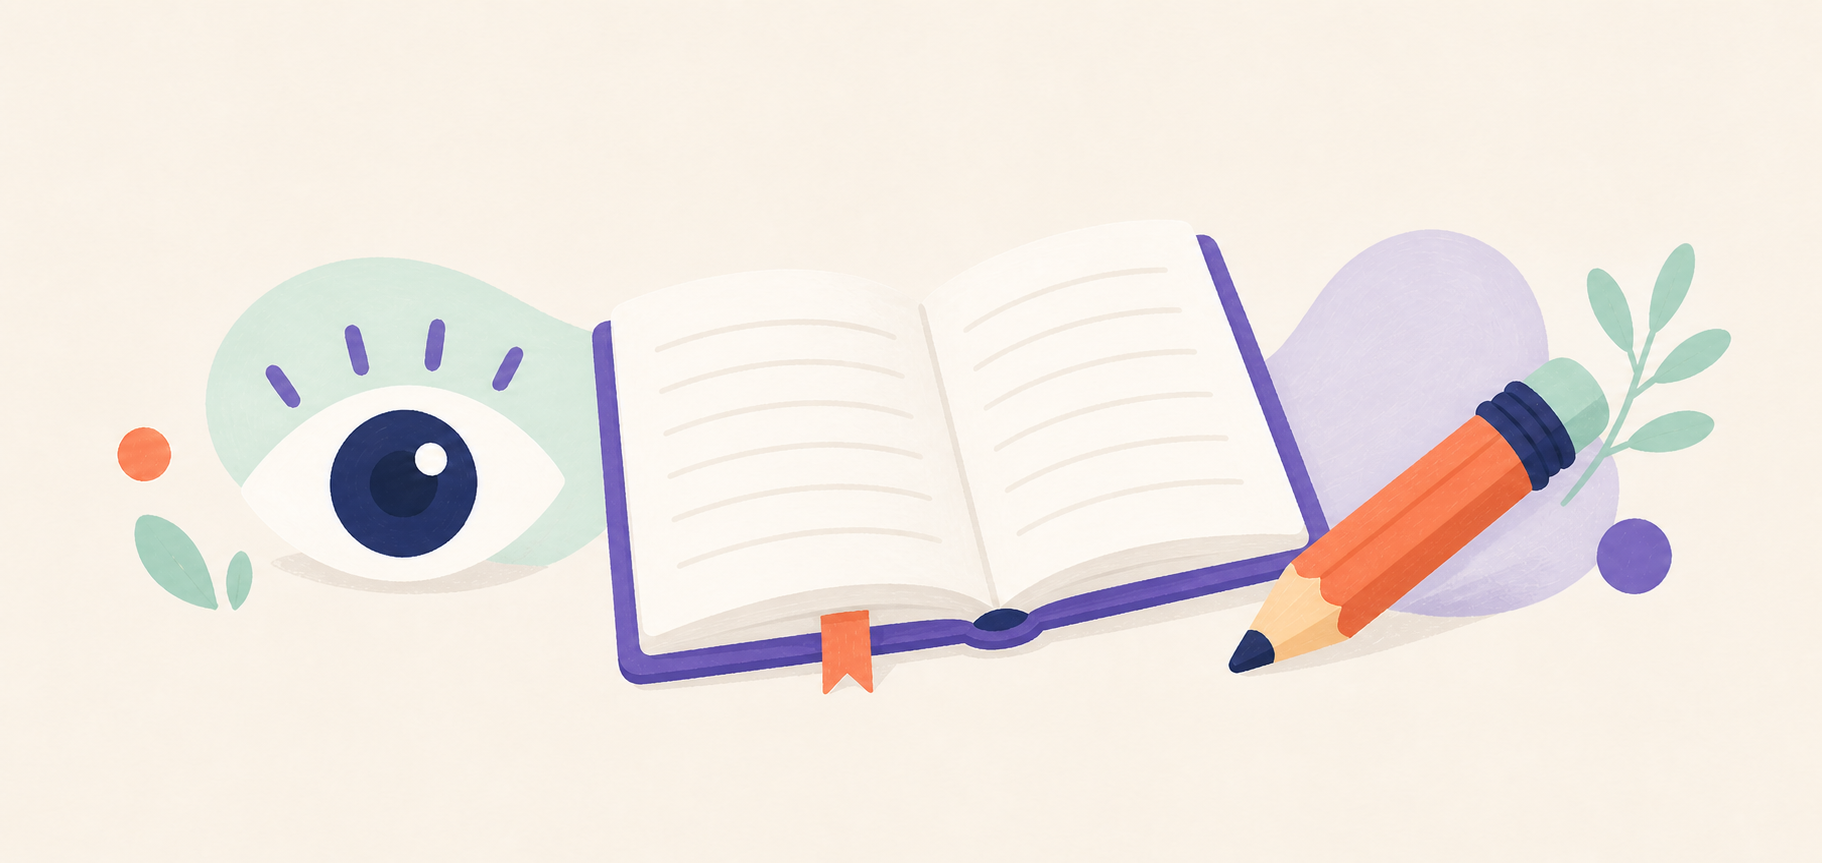
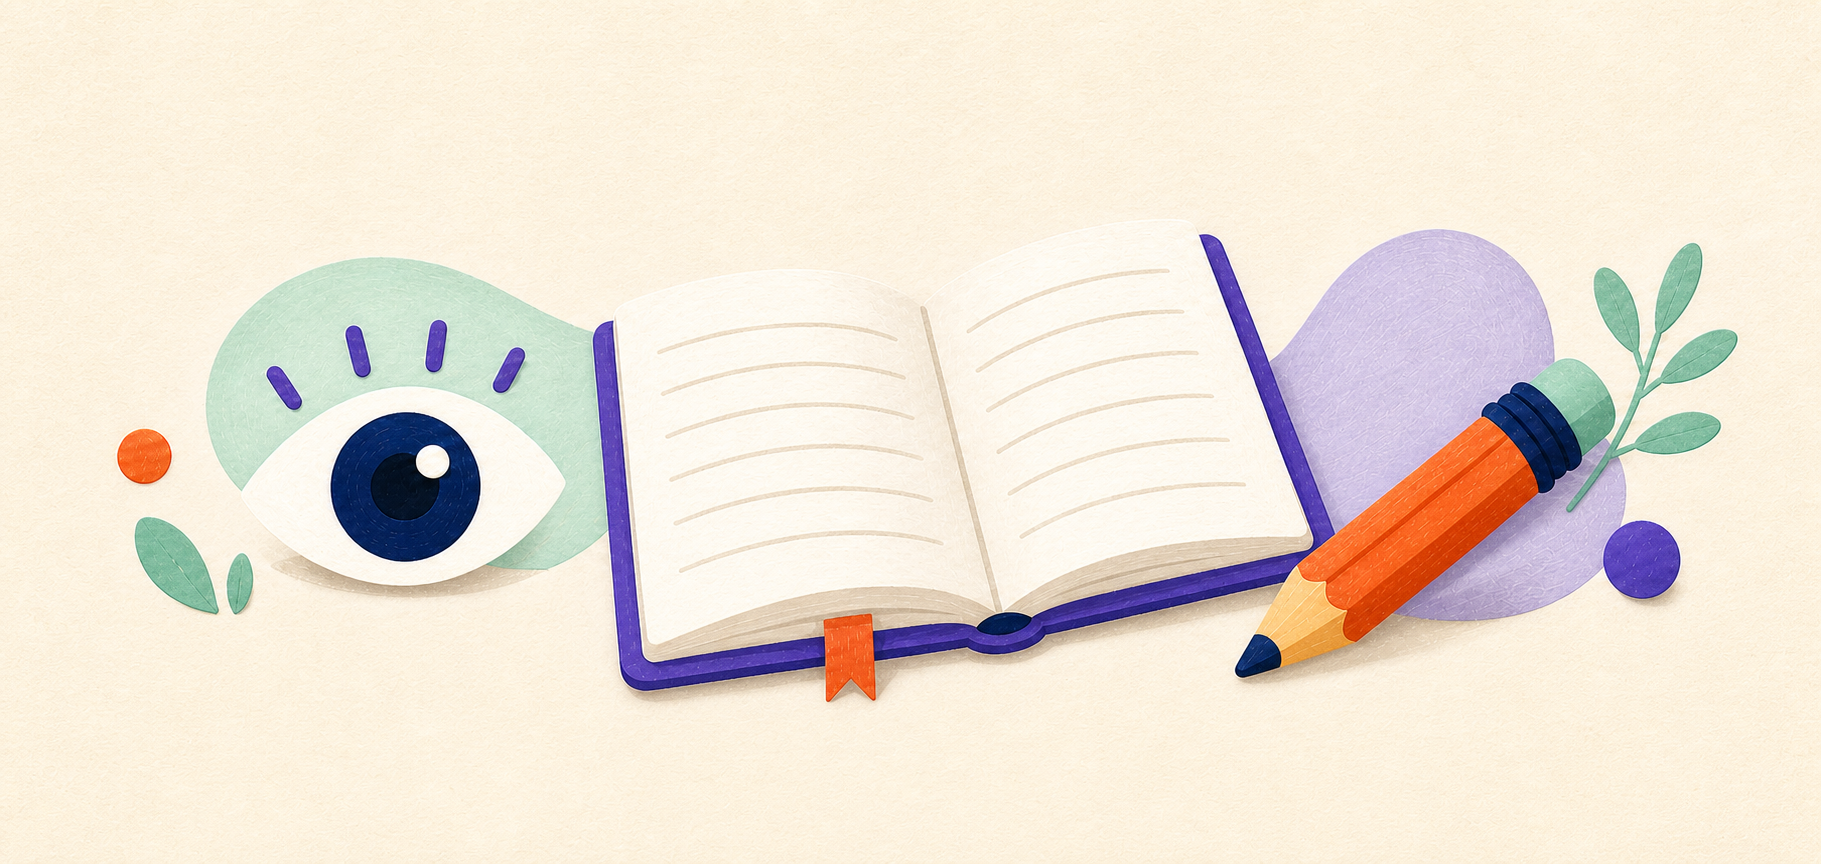
Improve calibration reading and visual celebration

diff --git a/app/DictaApp.tsx b/app/DictaApp.tsx
@@ -26,13 +26,18 @@ const CALIBRATION_PREPARATION_MS = 2000;
 const CALIBRATION_MEASUREMENT_MS = 1500;
 const AUTO_HIDE_GRACE_MS = 2000;
 const CONFETTI_COLORS = ["#ef765f", "#6654d9", "#58a37c", "#f3b34f"] as const;
-const CONFETTI_PIECES = Array.from({ length: 56 }, (_, index) => ({
-  left: `${5 + ((index * 19) % 90)}%`,
-  delay: `${(index % 16) * 240 + Math.floor(index / 16) * 180}ms`,
-  drift: `${((index * 31) % 70) - 35}px`,
-  rotate: `${((index * 47) % 60) - 30}deg`,
-  color: CONFETTI_COLORS[index % CONFETTI_COLORS.length],
-}));
+const CONFETTI_PIECES = Array.from({ length: 56 }, (_, index) => {
+  const origin = index % 6 === 0 ? "left" : index % 6 === 1 ? "right" : "top";
+  return {
+    origin,
+    left: origin === "left" ? "-12px" : origin === "right" ? "calc(100% + 12px)" : `${5 + ((index * 19) % 90)}%`,
+    top: origin === "top" ? "-18px" : `${18 + ((index * 23) % 58)}%`,
+    delay: `${(index % 16) * 240 + Math.floor(index / 16) * 180}ms`,
+    drift: `${((index * 31) % 70) - 35}px`,
+    rotate: `${((index * 47) % 60) - 30}deg`,
+    color: CONFETTI_COLORS[index % CONFETTI_COLORS.length],
+  };
+});
 
 const INITIAL_LEVEL: PrimaryLevel = "CP";
 const INITIAL_DICTATION = getDictation(INITIAL_LEVEL, 0);
@@ -99,6 +104,7 @@ export function DictaApp() {
   const lastCameraReadingAtRef = useRef(0);
   const autoHideBlockedUntilRef = useRef(0);
   const sessionStartedAtRef = useRef<number | null>(null);
+  const calibrationReadConfirmedRef = useRef(false);
   const dictationCursorsRef = useRef<Record<PrimaryLevel, number>>({ ...INITIAL_CURSORS });
 
   useEffect(() => {
@@ -130,9 +136,9 @@ export function DictaApp() {
     chooseNextDictation(event.target.value as PrimaryLevel);
   };
 
-  const startAutoHideGracePeriod = () => {
+  const startAutoHideGracePeriod = useCallback(() => {
     autoHideBlockedUntilRef.current = Date.now() + AUTO_HIDE_GRACE_MS;
-  };
+  }, []);
 
   const setLetterTarget = (value: number) => {
     if (!Number.isFinite(value)) return;
@@ -254,6 +260,15 @@ export function DictaApp() {
     return () => window.clearInterval(watchdog);
   }, [cameraMode, phase, screen]);
 
+  const startCameraSession = useCallback(() => {
+    setFragmentIndex(0);
+    setReviewCounts(Array(fragments.length).fill(0));
+    sessionStartedAtRef.current = Date.now();
+    startAutoHideGracePeriod();
+    setPhase("memorizing");
+    setScreen("session");
+  }, [fragments.length, startAutoHideGracePeriod]);
+
   useEffect(() => {
     if (cameraMode !== "camera" || !detectorRef.current) return;
     if (screen !== "calibration-screen") return;
@@ -266,12 +281,7 @@ export function DictaApp() {
         detectorRef.current?.finishCalibration("screen");
         setCalibrationPhase("ready");
         playCalibrationBeep();
-        setFragmentIndex(0);
-        setReviewCounts(Array(fragments.length).fill(0));
-        sessionStartedAtRef.current = Date.now();
-        startAutoHideGracePeriod();
-        setPhase("memorizing");
-        setScreen("session");
+        if (calibrationReadConfirmedRef.current) startCameraSession();
       } catch {
         setCalibrationPhase("failed");
         setToast("Je n’ai pas assez vu ton visage. Replace-toi puis réessaie.");
@@ -285,7 +295,12 @@ export function DictaApp() {
       window.clearTimeout(preparationTimer);
       if (measurementTimer !== undefined) window.clearTimeout(measurementTimer);
     };
-  }, [calibrationAttempt, cameraMode, fragments.length, playCalibrationBeep, screen]);
+  }, [calibrationAttempt, cameraMode, fragments.length, playCalibrationBeep, screen, startCameraSession]);
+
+  const confirmCalibrationRead = () => {
+    calibrationReadConfirmedRef.current = true;
+    if (calibrationPhase === "ready") startCameraSession();
+  };
 
   const beginManual = () => {
     stopCamera();
@@ -296,6 +311,7 @@ export function DictaApp() {
     setPhase("memorizing");
     setFragmentIndex(0);
     setReviewCounts(Array(fragments.length).fill(0));
+    calibrationReadConfirmedRef.current = false;
     sessionStartedAtRef.current = Date.now();
     startAutoHideGracePeriod();
   };
@@ -348,6 +364,7 @@ export function DictaApp() {
     setSummaryScore(null);
     setCurrentScoreId(null);
     setIsNewBestScore(false);
+    calibrationReadConfirmedRef.current = false;
     sessionStartedAtRef.current = null;
   };
 
@@ -390,7 +407,7 @@ export function DictaApp() {
               <span>Dictée {selectedDictation.index + 1} sur {selectedDictation.total} · {getLevel(selectedLevel).cycle} · {text.trim().split(/\s+/).filter(Boolean).length} mots</span>
             </div>
             <div className="settings-row">
-              <div><strong>Lettres par étape</strong><div className="muted">Arrondi au mot supérieur · Environ {fragments.length} fragments</div></div>
+              <div><strong>Lettres par étape</strong></div>
               <div className="stepper">
                 <button aria-label="Réduire le nombre de lettres" onClick={() => setLetterTarget(lettersPerFragment - 1)}>−</button>
                 <input
@@ -438,7 +455,7 @@ export function DictaApp() {
               </div>
             </div>
             <div className="placement-tip"><span className="placement-tip-icon" aria-hidden="true">◎</span><span>Centre ton visage dans le cadre, puis garde le téléphone bien droit.</span></div>
-            <button className="primary-button" disabled={!faceDetected || cameraLoading} onClick={() => { primeAudioFeedback(); detectorRef.current?.beginCalibration("screen"); setCalibrationPhase("preparing"); setScreen("calibration-screen"); }}>{faceDetected ? "Mon visage est bien placé" : "Recherche du visage…"}</button>
+            <button className="primary-button" disabled={!faceDetected || cameraLoading} onClick={() => { primeAudioFeedback(); calibrationReadConfirmedRef.current = false; detectorRef.current?.beginCalibration("screen"); setCalibrationPhase("preparing"); setScreen("calibration-screen"); }}>{faceDetected ? "Mon visage est bien placé" : "Recherche du visage…"}</button>
             <button className="manual-hide" onClick={beginManual}>Utiliser le mode manuel</button>
           </div>
         </section>
@@ -446,16 +463,24 @@ export function DictaApp() {
 
       {screen === "calibration-screen" && (
         <section className="session-shell calibration-shell">
-          <div className="card stage-card calibration-card" data-phase={calibrationPhase}>
+          <div className="card calibration-reading-card" data-phase={calibrationPhase}>
             {calibrationPhase === "failed" ? (
               <>
-                <div className="calibration-message" role="alert">Replace ton visage dans le champ de la caméra.</div>
-                <button className="primary-button" onClick={() => { detectorRef.current?.beginCalibration("screen"); setCalibrationPhase("preparing"); setCalibrationAttempt((value) => value + 1); }}>Réessayer</button>
+                <div className="eyebrow">Lis la dictée</div>
+                <div className="calibration-dictation">{text}</div>
+                <div className="calibration-reading-actions">
+                  <p className="calibration-error" role="alert">Replace ton visage dans le champ de la caméra.</p>
+                  <button className="secondary-button" onClick={() => { calibrationReadConfirmedRef.current = false; detectorRef.current?.beginCalibration("screen"); setCalibrationPhase("preparing"); setCalibrationAttempt((value) => value + 1); }}>Réessayer</button>
+                </div>
               </>
             ) : (
               <>
-                <div className="calibration-message" role="status" aria-live="polite">Regardez la caméra</div>
-                <span className="sr-only">{calibrationPhase === "preparing" ? "La calibration commence dans deux secondes." : "Calibration en cours."}</span>
+                <div className="eyebrow">Lis la dictée</div>
+                <div className="calibration-dictation">{text}</div>
+                <div className="calibration-reading-actions">
+                  <p className="calibration-reading-help">Lis toute la dictée, puis appuie quand tu as terminé.</p>
+                  <button className="primary-button" onClick={confirmCalibrationRead}>J&apos;ai lu</button>
+                </div>
               </>
             )}
           </div>
@@ -498,9 +523,10 @@ export function DictaApp() {
               {CONFETTI_PIECES.map((piece, index) => (
                 <span
                   key={`${piece.left}-${index}`}
-                  className="confetti-piece"
+                  className={`confetti-piece confetti-piece-${piece.origin}`}
                   style={{
                     "--confetti-left": piece.left,
+                    "--confetti-top": piece.top,
                     "--confetti-delay": piece.delay,
                     "--confetti-drift": piece.drift,
                     "--confetti-rotate": piece.rotate,

diff --git a/app/globals.css b/app/globals.css
@@ -129,6 +129,12 @@ button { touch-action: manipulation; }
 .calibration-card { flex: 0 1 auto; height: min(360px, calc(100svh - 150px)); min-height: 0; align-items: center; justify-content: center; padding: 34px 24px; }
 .calibration-message { max-width: 360px; font-size: clamp(34px, 9vw, 54px); font-weight: 850; letter-spacing: -.05em; line-height: 1.05; }
 .calibration-card[data-phase="failed"] .calibration-message { font-size: clamp(24px, 7vw, 34px); }
+.calibration-reading-card { flex: 1; min-height: min(680px, calc(100svh - 104px)); display: flex; flex-direction: column; align-items: stretch; padding: 28px 22px 22px; overflow: hidden; }
+.calibration-dictation { flex: 1; width: 100%; margin: 22px 0; padding: 20px; overflow-y: auto; border: 1px solid var(--line); border-radius: 22px; background: rgba(255, 255, 255, .72); color: var(--ink); text-align: left; white-space: pre-wrap; font-size: clamp(22px, 5.8vw, 34px); font-weight: 760; letter-spacing: -.035em; line-height: 1.35; }
+.calibration-reading-actions { width: 100%; margin-top: auto; }
+.calibration-reading-help, .calibration-error { margin: 0 0 12px; color: var(--muted); font-size: 13px; line-height: 1.45; text-align: center; }
+.calibration-error { color: #94412f; }
+.calibration-reading-actions .primary-button, .calibration-reading-actions .secondary-button { margin-top: 0; width: 100%; }
 .gaze-target-card { justify-content: flex-start; padding-top: 82px; }
 .gaze-target-card .fragment { margin-top: 12px; }
 .stage-card::before { content: ""; position: absolute; inset: 18px; border: 1px dashed rgba(102,84,217,.18); border-radius: 21px; pointer-events: none; }
@@ -150,10 +156,12 @@ button { touch-action: manipulation; }
 .summary-card { isolation: isolate; }
 .confetti-field { position: absolute; inset: 0; overflow: hidden; pointer-events: none; z-index: 2; }
 .confetti-piece {
-  position: absolute; top: -18px; left: var(--confetti-left); width: 9px; height: 14px;
+  position: absolute; top: var(--confetti-top); left: var(--confetti-left); width: 9px; height: 14px;
   border-radius: 3px; background: var(--confetti-color); opacity: 0;
   animation: confetti-fall 6.5s var(--confetti-delay) ease-out both;
 }
+.confetti-piece-left { animation-name: confetti-from-left; }
+.confetti-piece-right { animation-name: confetti-from-right; }
 @keyframes summary-score-bounce {
   0% { opacity: 0; transform: scale(.82); }
   48% { opacity: 1; transform: scale(1.1); }
@@ -167,6 +175,16 @@ button { touch-action: manipulation; }
   0% { opacity: 0; transform: translate3d(0, -18px, 0) rotate(var(--confetti-rotate)); }
   12% { opacity: 1; }
   100% { opacity: 0; transform: translate3d(var(--confetti-drift), calc(100svh + 80px), 0) rotate(calc(var(--confetti-rotate) + 420deg)); }
+}
+@keyframes confetti-from-left {
+  0% { opacity: 0; transform: translate3d(-30px, 0, 0) rotate(var(--confetti-rotate)); }
+  16% { opacity: 1; }
+  100% { opacity: 0; transform: translate3d(calc(100vw + 50px), calc(100svh * .62), 0) rotate(calc(var(--confetti-rotate) + 540deg)); }
+}
+@keyframes confetti-from-right {
+  0% { opacity: 0; transform: translate3d(30px, 0, 0) rotate(var(--confetti-rotate)); }
+  16% { opacity: 1; }
+  100% { opacity: 0; transform: translate3d(calc(-100vw - 50px), calc(100svh * .62), 0) rotate(calc(var(--confetti-rotate) - 540deg)); }
 }
 @media (prefers-reduced-motion: reduce) {
   .confetti-piece { animation: none; opacity: .9; transform: translateY(80px) rotate(var(--confetti-rotate)); }
